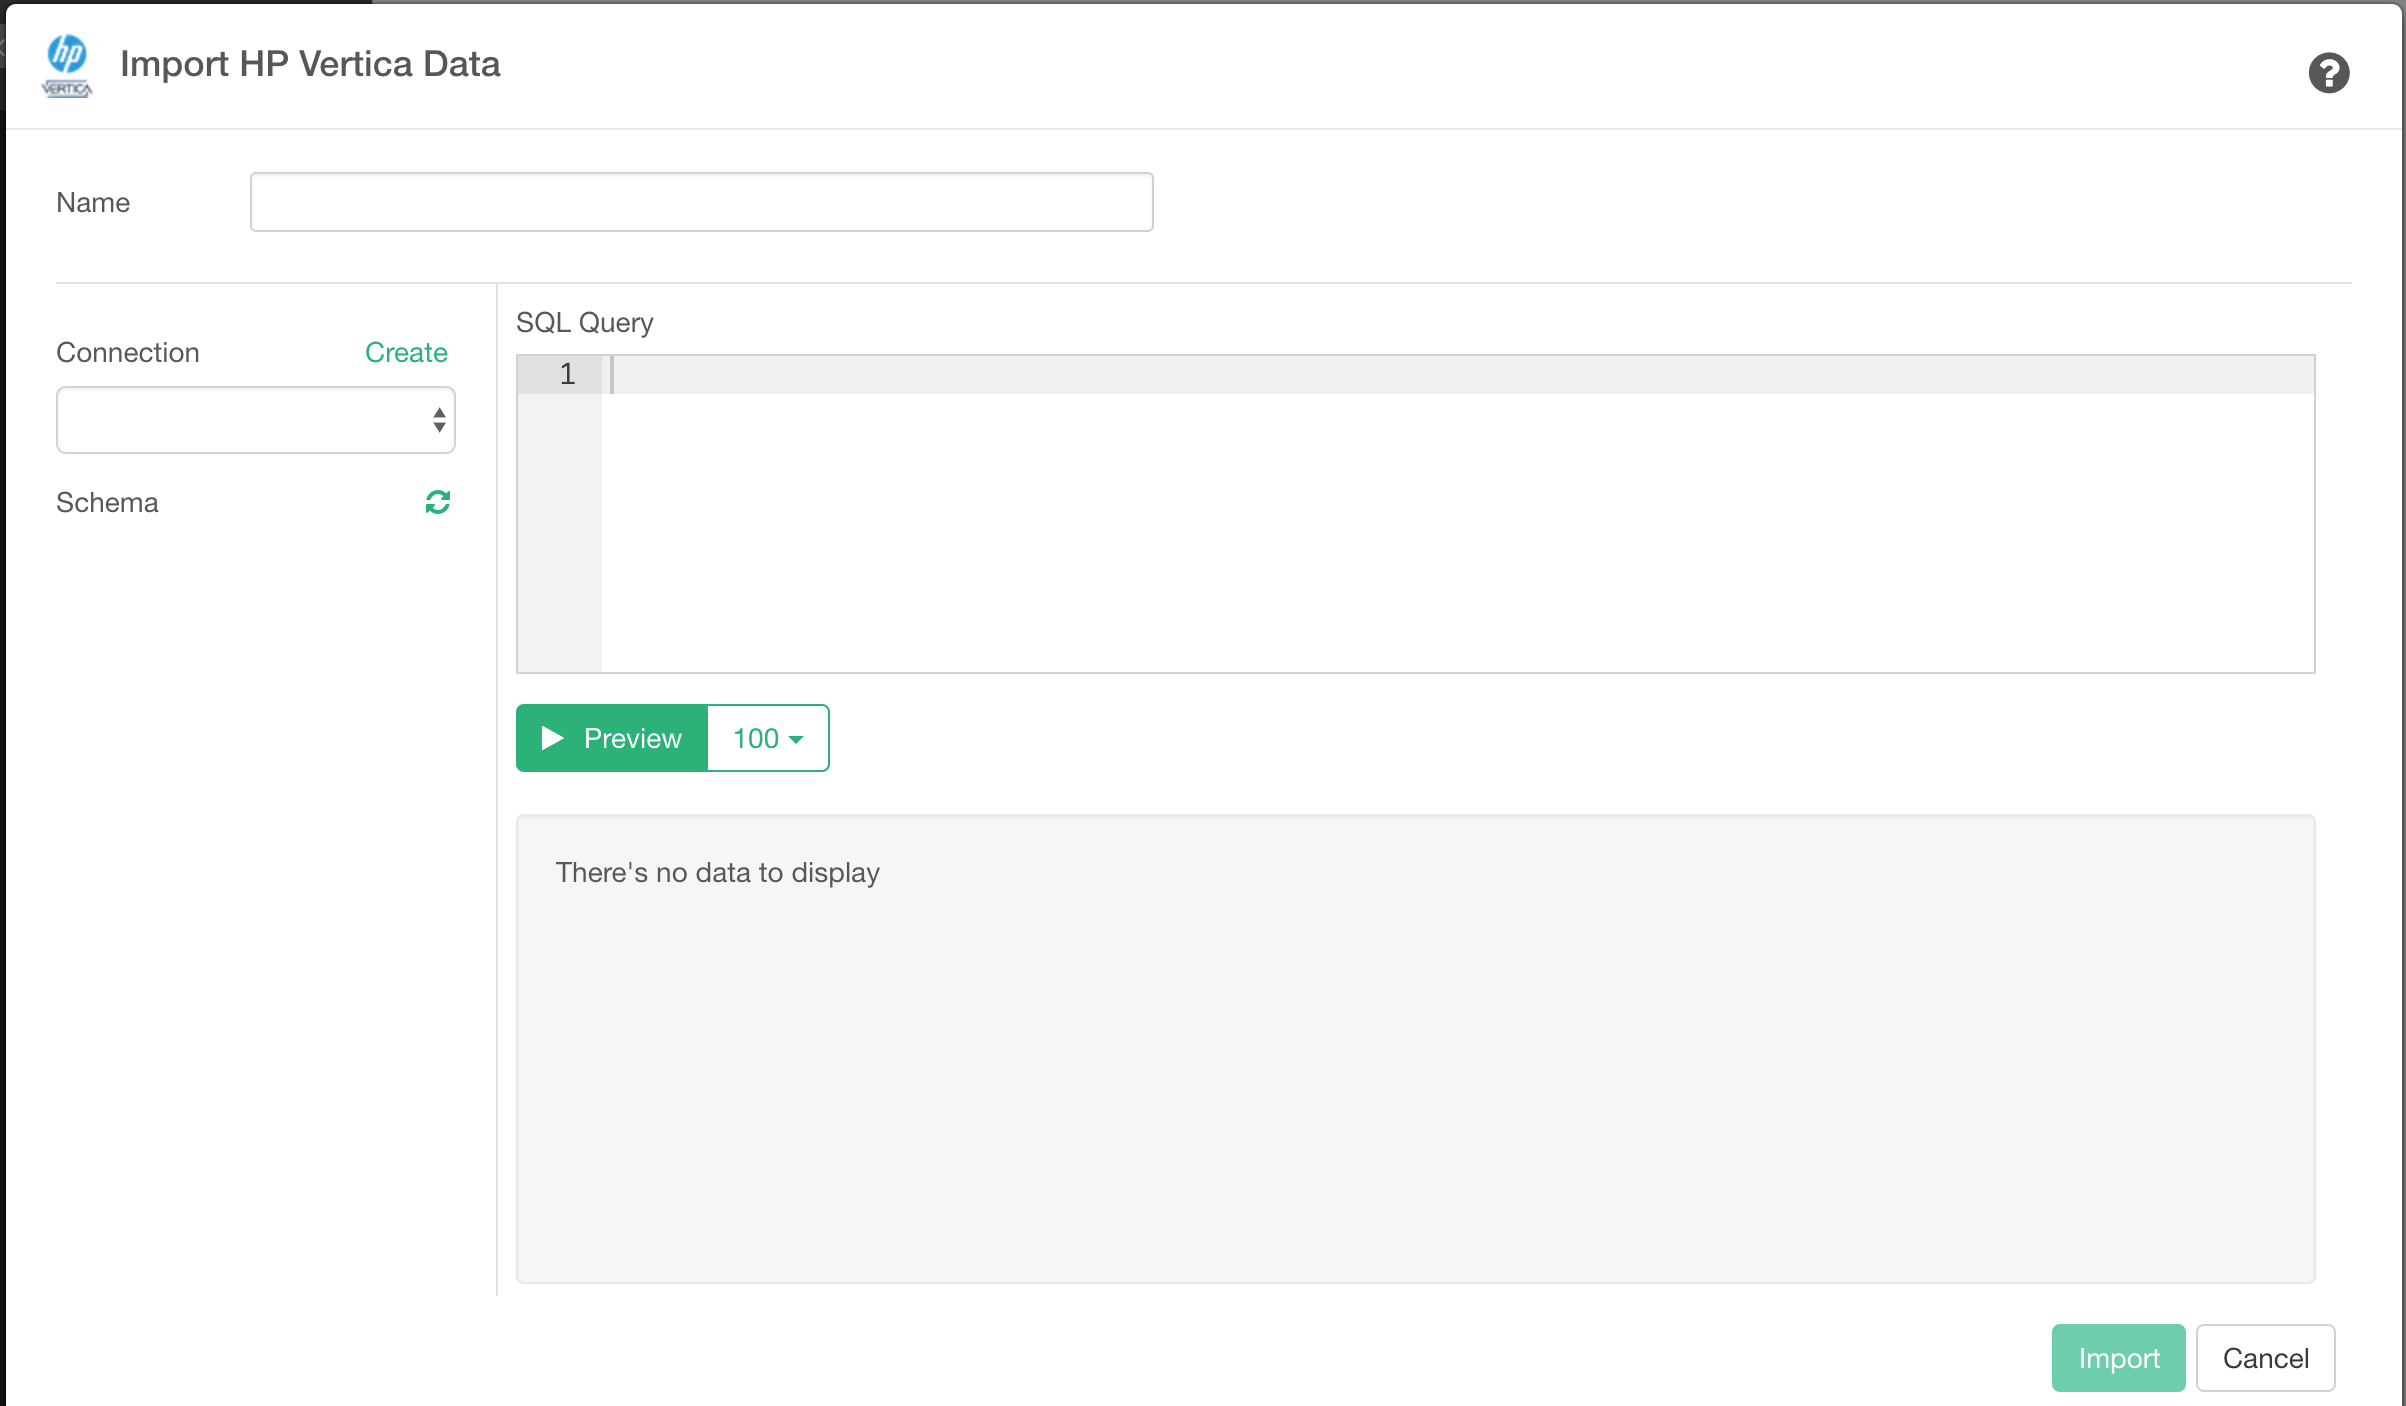
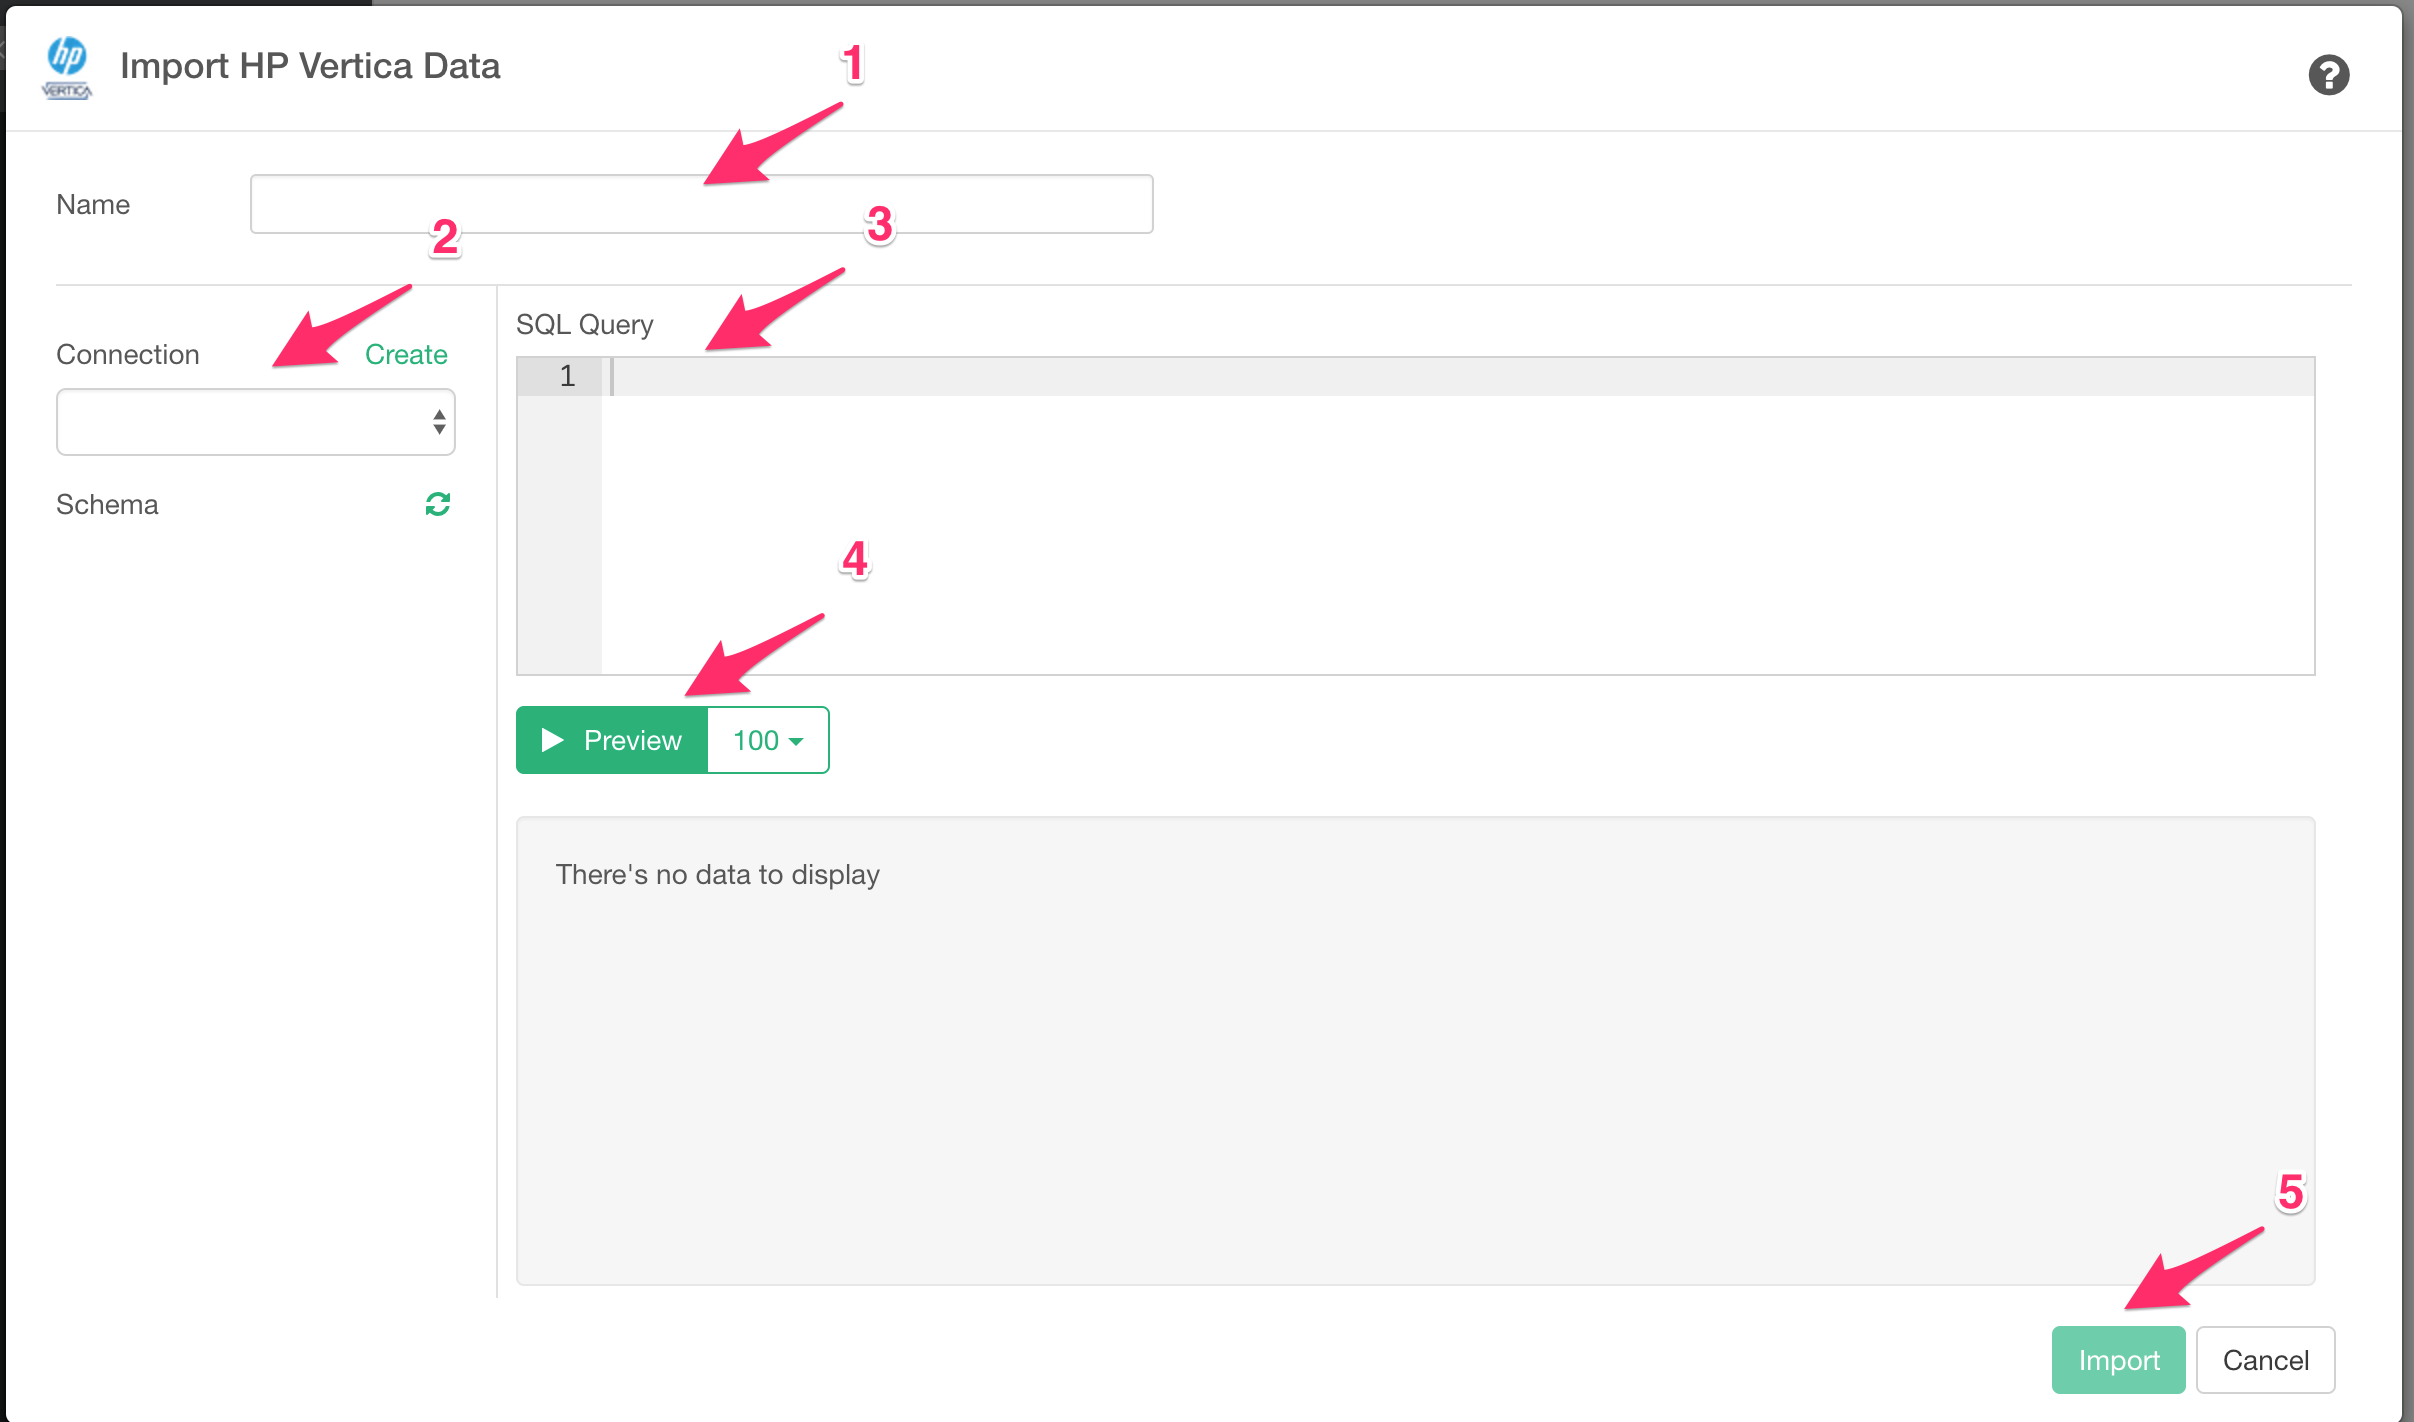
modify hp-vertica

diff --git a/import/hp-vertica.md b/import/hp-vertica.md
@@ -17,9 +17,17 @@ Click HP Vertica to select.
 ![](images/hp-vertica-dialog.png)
 
 
-## 3. Preview and Import
+## 3. Import
 
-Click "Preview" button to see the data back from your HP Vertica db.
+1. Put data frame name.
+
+2. Select connection from left dialog box.
+
+3. Write a query in the input field.
+
+4. Click "Preview" button. Then you will see the preview of the data.
+
+5. Click "Import" button.
 
 ![](images/hp-vertica-preview.png)
 
